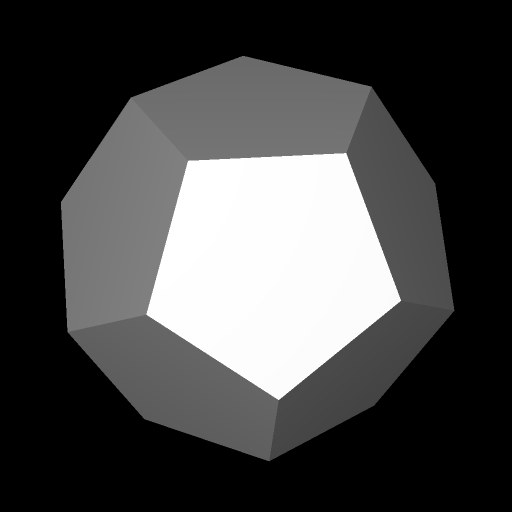
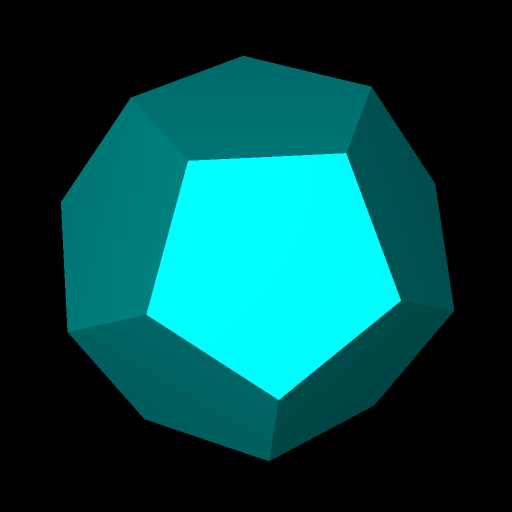
Improve README.md (#18)
* Use RedirectStandardError when rendering mp4 files

* Upgrade packages

* Paint scenes

* Improve README.md

---------

diff --git a/Imagine.Scenes/Scene.cs b/Imagine.Scenes/Scene.cs
@@ -20,8 +20,22 @@ public static class Scene
 	public static readonly double TetrahedronInradius = 1D / double.Sqrt(6D);
 	public static readonly double TetrahedronMidradius = 1D / double.Sqrt(2D);
 
+	private static readonly ColorHsv ConeColor = new(11D / 12D, 1D, 1D);
+	private static readonly ColorHsv CubeFaceDownColor = new(2D / 12D, 1D, 1D);
+	private static readonly ColorHsv CubeVertexDownColor = new(4D / 12D, 1D, 1D);
+	private static readonly ColorHsv CylinderColor = new(10D / 12D, 1D, 1D);
+	private static readonly ColorHsv DodecahedronFaceDownColor = new(6D / 12D, 1D, 1D);
+	private static readonly ColorHsv DodecahedronVertexDownColor = new(8D / 12D, 1D, 1D);
+	private static readonly ColorHsv IcosahedronFaceDownColor = new(9D / 12D, 1D, 1D);
+	private static readonly ColorHsv IcosahedronVertexDownColor = new(7D / 12D, 1D, 1D);
+	private static readonly ColorHsv OctahedronFaceDownColor = new(5D / 12D, 1D, 1D);
+	private static readonly ColorHsv OctahedronVertexDownColor = new(3D / 12D, 1D, 1D);
+	private static readonly ColorHsv TetrahedronFaceDownColor = new(0D / 12D, 1D, 1D);
+	private static readonly ColorHsv TetrahedronVertexDownColor = new(1D / 12D, 1D, 1D);
+
 	public static IScene Cone(Vector3 axis, double angle) =>
-		new Cone(axis, angle);
+		new Cone(axis, angle)
+			.Painted(ConeColor);
 
 	public static IScene CubeFaceDownWithCircumradius(double circumradius) =>
 		CubeFaceDownWithInradius(circumradius * CubeInradius / CubeCircumradius);
@@ -40,7 +54,8 @@ public static class Scene
 			new Vector3Spherical(inradius, 1D * deltaPhi, theta1),
 			new Vector3Spherical(inradius, 2D * deltaPhi, theta1),
 			new Vector3Spherical(inradius, 3D * deltaPhi, theta1),
-			new Vector3Spherical(inradius, 0D, theta2));
+			new Vector3Spherical(inradius, 0D, theta2))
+			.Painted(CubeFaceDownColor);
 	}
 
 	public static IScene CubeFaceDownWithMidradius(double midradius) =>
@@ -62,14 +77,16 @@ public static class Scene
 			new Vector3Spherical(inradius, 4D * deltaPhi, theta0),
 			new Vector3Spherical(inradius, 1D * deltaPhi, theta1),
 			new Vector3Spherical(inradius, 3D * deltaPhi, theta1),
-			new Vector3Spherical(inradius, 5D * deltaPhi, theta1));
+			new Vector3Spherical(inradius, 5D * deltaPhi, theta1))
+			.Painted(CubeVertexDownColor);
 	}
 
 	public static IScene CubeVertexDownWithMidradius(double midradius) =>
 		CubeVertexDownWithInradius(midradius * CubeInradius / CubeMidradius);
 
 	public static IScene Cylinder(Vector3 axis, double radius) =>
-		new Cylinder(axis, radius);
+		new Cylinder(axis, radius)
+			.Painted(CylinderColor);
 
 	public static IScene DodecahedronFaceDownWithCircumradius(double circumradius) =>
 		DodecahedronFaceDownWithInradius(circumradius * DodecahedronInradius / DodecahedronCircumradius);
@@ -95,7 +112,8 @@ public static class Scene
 			new Vector3Spherical(inradius, 4D * deltaPhi, theta2),
 			new Vector3Spherical(inradius, 6D * deltaPhi, theta2),
 			new Vector3Spherical(inradius, 8D * deltaPhi, theta2),
-			new Vector3Spherical(inradius, 0D, theta3));
+			new Vector3Spherical(inradius, 0D, theta3))
+			.Painted(DodecahedronFaceDownColor);
 	}
 
 	public static IScene DodecahedronFaceDownWithMidradius(double midradius) =>
@@ -125,7 +143,8 @@ public static class Scene
 			new Vector3Spherical(inradius, 4D * deltaPhi, theta2),
 			new Vector3Spherical(inradius, 1D * deltaPhi, theta3),
 			new Vector3Spherical(inradius, 3D * deltaPhi, theta3),
-			new Vector3Spherical(inradius, 5D * deltaPhi, theta3));
+			new Vector3Spherical(inradius, 5D * deltaPhi, theta3))
+			.Painted(DodecahedronVertexDownColor);
 	}
 
 	public static IScene DodecahedronVertexDownWithMidradius(double midradius) =>
@@ -172,7 +191,8 @@ public static class Scene
 			new Vector3Spherical(inradius, 0D * deltaPhi, theta4),
 			new Vector3Spherical(inradius, 2D * deltaPhi, theta4),
 			new Vector3Spherical(inradius, 4D * deltaPhi, theta4),
-			new Vector3Spherical(inradius, 0D, theta5));
+			new Vector3Spherical(inradius, 0D, theta5))
+			.Painted(IcosahedronFaceDownColor);
 	}
 
 	public static IScene IcosahedronFaceDownWithMidradius(double midradius) =>
@@ -210,7 +230,8 @@ public static class Scene
 			new Vector3Spherical(inradius, 3D * deltaPhi, theta3),
 			new Vector3Spherical(inradius, 5D * deltaPhi, theta3),
 			new Vector3Spherical(inradius, 7D * deltaPhi, theta3),
-			new Vector3Spherical(inradius, 9D * deltaPhi, theta3));
+			new Vector3Spherical(inradius, 9D * deltaPhi, theta3))
+			.Painted(IcosahedronVertexDownColor);
 	}
 
 	public static IScene IcosahedronVertexDownWithMidradius(double midradius) =>
@@ -239,7 +260,8 @@ public static class Scene
 			new Vector3Spherical(inradius, 0D * deltaPhi, theta2),
 			new Vector3Spherical(inradius, 2D * deltaPhi, theta2),
 			new Vector3Spherical(inradius, 4D * deltaPhi, theta2),
-			new Vector3Spherical(inradius, 0D, theta3));
+			new Vector3Spherical(inradius, 0D, theta3))
+			.Painted(OctahedronFaceDownColor);
 	}
 
 	public static IScene OctahedronFaceDownWithMidradius(double midradius) =>
@@ -263,7 +285,8 @@ public static class Scene
 			new Vector3Spherical(inradius, 1D * deltaPhi, theta1),
 			new Vector3Spherical(inradius, 3D * deltaPhi, theta1),
 			new Vector3Spherical(inradius, 5D * deltaPhi, theta1),
-			new Vector3Spherical(inradius, 7D * deltaPhi, theta1));
+			new Vector3Spherical(inradius, 7D * deltaPhi, theta1))
+			.Painted(OctahedronVertexDownColor);
 	}
 
 	public static IScene OctahedronVertexDownWithMidradius(double midradius) =>
@@ -298,7 +321,8 @@ public static class Scene
 			new Vector3Spherical(inradius, 0D * deltaPhi, theta0),
 			new Vector3Spherical(inradius, 2D * deltaPhi, theta0),
 			new Vector3Spherical(inradius, 4D * deltaPhi, theta0),
-			new Vector3Spherical(inradius, 0D, theta1));
+			new Vector3Spherical(inradius, 0D, theta1))
+			.Painted(TetrahedronFaceDownColor);
 	}
 
 	public static IScene TetrahedronFaceDownWithMidradius(double midradius) =>
@@ -318,7 +342,8 @@ public static class Scene
 			new Vector3Spherical(inradius, 0D, theta0),
 			new Vector3Spherical(inradius, 1D * deltaPhi, theta1),
 			new Vector3Spherical(inradius, 3D * deltaPhi, theta1),
-			new Vector3Spherical(inradius, 5D * deltaPhi, theta1));
+			new Vector3Spherical(inradius, 5D * deltaPhi, theta1))
+			.Painted(TetrahedronVertexDownColor);
 	}
 
 	public static IScene TetrahedronVertexDownWithMidradius(double midradius) =>

diff --git a/Imagine.Tests/ProjectorImageTests.cs b/Imagine.Tests/ProjectorImageTests.cs
@@ -14,7 +14,7 @@ public class ProjectorImageTests
 			Scene.DodecahedronMidradius / Scene.DodecahedronCircumradius,
 			Scene.IcosahedronMidradius / Scene.IcosahedronCircumradius);
 
-	private static readonly double SphereRadius =
+	private static readonly double SphereAlmostTouchingCubeEdgeRadius =
 		(Constants.Circumradius * Scene.CubeMidradius / Scene.CubeCircumradius) - Narrow;
 
 	private static readonly double TetrahedronMidradius =
@@ -33,7 +33,7 @@ public class ProjectorImageTests
 			subsamples: 2);
 
 	private static readonly IScene BoundingSphere = Scene.SphereWithRadius(Constants.Circumradius).Transparent();
-	private static readonly IScene Sphere = Scene.SphereWithRadius(SphereRadius);
+	private static readonly IScene SphereAlmostTouchingCubeEdge = Scene.SphereWithRadius(SphereAlmostTouchingCubeEdgeRadius);
 
 	private static readonly Dictionary<string, IScene> Scenes =
 		new()
@@ -53,9 +53,6 @@ public class ProjectorImageTests
 				Scene.Union(
 					Scene.CubeFaceDownWithMidradius(CubeOctahedronMidradius),
 					Scene.OctahedronVertexDownWithMidradius(CubeOctahedronMidradius)),
-			["cube-face-down-painted"] =
-				Scene.CubeFaceDownWithCircumradius(Constants.Circumradius)
-					.Painted(Color.Red),
 			["cube-face-down-rotated"] =
 				Scene.CubeFaceDownWithCircumradius(Constants.Circumradius)
 					.Rotated(double.Pi / 4D),
@@ -66,15 +63,15 @@ public class ProjectorImageTests
 				Scene.Intersection(
 					Scene.CubeFaceDownWithCircumradius(Constants.Circumradius),
 					Scene.SphereWithRadius(1D).
-						Scaled(SphereRadius)),
+						Scaled(SphereAlmostTouchingCubeEdgeRadius)),
 			["cube-face-down-sphere-inverted-union"] =
 				Scene.Intersection(
 					Scene.CubeFaceDownWithCircumradius(Constants.Circumradius),
-					Sphere.Inverted()),
+					SphereAlmostTouchingCubeEdge.Inverted()),
 			["cube-face-down-sphere-union"] =
 				Scene.Union(
 					Scene.CubeFaceDownWithCircumradius(Constants.Circumradius),
-					Sphere),
+					SphereAlmostTouchingCubeEdge),
 			["cube-face-down-translated"] =
 				Scene.CubeFaceDownWithCircumradius(Constants.Circumradius)
 					.Translated(new(0D, Constants.Circumradius / 4D, 0D)),
@@ -123,14 +120,14 @@ public class ProjectorImageTests
 					Scene.PlaneThroughOrigin(Vector3.UnitZ),
 					BoundingSphere),
 			["sphere"] =
-				Sphere,
+				Scene.SphereWithRadius(Constants.Circumradius),
 			["sphere-cone-inverted-intersection"] =
 				Scene.Intersection(
-					Sphere,
+					SphereAlmostTouchingCubeEdge,
 					Scene.Cone(Vector3.UnitZ, double.Pi / 2D).Inverted()),
 			["sphere-cube-face-down-inverted-intersection"] =
 				Scene.Intersection(
-					Sphere,
+					SphereAlmostTouchingCubeEdge,
 					Scene.CubeFaceDownWithCircumradius(Constants.Circumradius)),
 			["sphere-painted-hsv"] =
 				Scene.SphereWithRadius(1D)

diff --git a/Imagine.Tools/Saver.cs b/Imagine.Tools/Saver.cs
@@ -52,6 +52,7 @@ public static class Saver
 				FileName = "ffmpeg",
 				Arguments = $"-y -framerate 30 -i {FramesDirectory}/{name}-%04d.png -c:v libx264 -pix_fmt yuv420p {file}",
 				RedirectStandardOutput = true,
+				RedirectStandardError = true,
 				UseShellExecute = false,
 				CreateNoWindow = true,
 			},

diff --git a/README.md b/README.md
@@ -1,4 +1,91 @@
 # Imagine
-- Images
-- Movies
-- Ray tracing
+
+Renders images and movies
+
+## Examples
+
+### Images
+
+<a href="Imagine.Tests/input/cone-bounded.png"><img src="Imagine.Tests/input/cone-bounded.png" width="128" height="128" alt="cone-bounded"><br>cone-bounded</a>
+
+<a href="Imagine.Tests/input/cone-union.png"><img src="Imagine.Tests/input/cone-union.png" width="128" height="128" alt="cone-union"><br>cone-union</a>
+
+<a href="Imagine.Tests/input/cube-face-down.png"><img src="Imagine.Tests/input/cube-face-down.png" width="128" height="128" alt="cube-face-down"><br>cube-face-down</a>
+
+<a href="Imagine.Tests/input/cube-face-down-octahedron-vertex-down-union.png"><img src="Imagine.Tests/input/cube-face-down-octahedron-vertex-down-union.png" width="128" height="128" alt="cube-face-down-octahedron-vertex-down-union"><br>cube-face-down-octahedron-vertex-down-union</a>
+
+<a href="Imagine.Tests/input/cube-face-down-rotated.png"><img src="Imagine.Tests/input/cube-face-down-rotated.png" width="128" height="128" alt="cube-face-down-rotated"><br>cube-face-down-rotated</a>
+
+<a href="Imagine.Tests/input/cube-face-down-scaled.png"><img src="Imagine.Tests/input/cube-face-down-scaled.png" width="128" height="128" alt="cube-face-down-scaled"><br>cube-face-down-scaled</a>
+
+<a href="Imagine.Tests/input/cube-face-down-sphere-intersection.png"><img src="Imagine.Tests/input/cube-face-down-sphere-intersection.png" width="128" height="128" alt="cube-face-down-sphere-intersection"><br>cube-face-down-sphere-intersection</a>
+
+<a href="Imagine.Tests/input/cube-face-down-sphere-inverted-union.png"><img src="Imagine.Tests/input/cube-face-down-sphere-inverted-union.png" width="128" height="128" alt="cube-face-down-sphere-inverted-union"><br>cube-face-down-sphere-inverted-union</a>
+
+<a href="Imagine.Tests/input/cube-face-down-sphere-union.png"><img src="Imagine.Tests/input/cube-face-down-sphere-union.png" width="128" height="128" alt="cube-face-down-sphere-union"><br>cube-face-down-sphere-union</a>
+
+<a href="Imagine.Tests/input/cube-face-down-translated.png"><img src="Imagine.Tests/input/cube-face-down-translated.png" width="128" height="128" alt="cube-face-down-translated"><br>cube-face-down-translated</a>
+
+<a href="Imagine.Tests/input/cube-vertex-down.png"><img src="Imagine.Tests/input/cube-vertex-down.png" width="128" height="128" alt="cube-vertex-down"><br>cube-vertex-down</a>
+
+<a href="Imagine.Tests/input/cylinder-bounded.png"><img src="Imagine.Tests/input/cylinder-bounded.png" width="128" height="128" alt="cylinder-bounded"><br>cylinder-bounded</a>
+
+<a href="Imagine.Tests/input/cylinder-intersection.png"><img src="Imagine.Tests/input/cylinder-intersection.png" width="128" height="128" alt="cylinder-intersection"><br>cylinder-intersection</a>
+
+<a href="Imagine.Tests/input/cylinder-union.png"><img src="Imagine.Tests/input/cylinder-union.png" width="128" height="128" alt="cylinder-union"><br>cylinder-union</a>
+
+<a href="Imagine.Tests/input/dodecahedron-face-down.png"><img src="Imagine.Tests/input/dodecahedron-face-down.png" width="128" height="128" alt="dodecahedron-face-down"><br>dodecahedron-face-down</a>
+
+<a href="Imagine.Tests/input/dodecahedron-face-down-icosahedron-vertex-down-union.png"><img src="Imagine.Tests/input/dodecahedron-face-down-icosahedron-vertex-down-union.png" width="128" height="128" alt="dodecahedron-face-down-icosahedron-vertex-down-union"><br>dodecahedron-face-down-icosahedron-vertex-down-union</a>
+
+<a href="Imagine.Tests/input/dodecahedron-vertex-down.png"><img src="Imagine.Tests/input/dodecahedron-vertex-down.png" width="128" height="128" alt="dodecahedron-vertex-down"><br>dodecahedron-vertex-down</a>
+
+<a href="Imagine.Tests/input/hsv.png"><img src="Imagine.Tests/input/hsv.png" width="128" height="128" alt="hsv"><br>hsv</a>
+
+<a href="Imagine.Tests/input/icosahedron-face-down.png"><img src="Imagine.Tests/input/icosahedron-face-down.png" width="128" height="128" alt="icosahedron-face-down"><br>icosahedron-face-down</a>
+
+<a href="Imagine.Tests/input/icosahedron-face-down-dodecahedron-vertex-down-union.png"><img src="Imagine.Tests/input/icosahedron-face-down-dodecahedron-vertex-down-union.png" width="128" height="128" alt="icosahedron-face-down-dodecahedron-vertex-down-union"><br>icosahedron-face-down-dodecahedron-vertex-down-union</a>
+
+<a href="Imagine.Tests/input/icosahedron-vertex-down.png"><img src="Imagine.Tests/input/icosahedron-vertex-down.png" width="128" height="128" alt="icosahedron-vertex-down"><br>icosahedron-vertex-down</a>
+
+<a href="Imagine.Tests/input/octahedron-face-down.png"><img src="Imagine.Tests/input/octahedron-face-down.png" width="128" height="128" alt="octahedron-face-down"><br>octahedron-face-down</a>
+
+<a href="Imagine.Tests/input/octahedron-face-down-cube-vertex-down-union.png"><img src="Imagine.Tests/input/octahedron-face-down-cube-vertex-down-union.png" width="128" height="128" alt="octahedron-face-down-cube-vertex-down-union"><br>octahedron-face-down-cube-vertex-down-union</a>
+
+<a href="Imagine.Tests/input/octahedron-vertex-down.png"><img src="Imagine.Tests/input/octahedron-vertex-down.png" width="128" height="128" alt="octahedron-vertex-down"><br>octahedron-vertex-down</a>
+
+<a href="Imagine.Tests/input/plane-horizontal-bounded.png"><img src="Imagine.Tests/input/plane-horizontal-bounded.png" width="128" height="128" alt="plane-horizontal-bounded"><br>plane-horizontal-bounded</a>
+
+<a href="Imagine.Tests/input/rgb.png"><img src="Imagine.Tests/input/rgb.png" width="128" height="128" alt="rgb"><br>rgb</a>
+
+<a href="Imagine.Tests/input/sphere.png"><img src="Imagine.Tests/input/sphere.png" width="128" height="128" alt="sphere"><br>sphere</a>
+
+<a href="Imagine.Tests/input/sphere-cone-inverted-intersection.png"><img src="Imagine.Tests/input/sphere-cone-inverted-intersection.png" width="128" height="128" alt="sphere-cone-inverted-intersection"><br>sphere-cone-inverted-intersection</a>
+
+<a href="Imagine.Tests/input/sphere-cube-face-down-inverted-intersection.png"><img src="Imagine.Tests/input/sphere-cube-face-down-inverted-intersection.png" width="128" height="128" alt="sphere-cube-face-down-inverted-intersection"><br>sphere-cube-face-down-inverted-intersection</a>
+
+<a href="Imagine.Tests/input/sphere-painted-hsv.png"><img src="Imagine.Tests/input/sphere-painted-hsv.png" width="128" height="128" alt="sphere-painted-hsv"><br>sphere-painted-hsv</a>
+
+<a href="Imagine.Tests/input/sphere-painted-hsv-cartesian.png"><img src="Imagine.Tests/input/sphere-painted-hsv-cartesian.png" width="128" height="128" alt="sphere-painted-hsv-cartesian"><br>sphere-painted-hsv-cartesian</a>
+
+<a href="Imagine.Tests/input/sphere-painted-hsv-spherical.png"><img src="Imagine.Tests/input/sphere-painted-hsv-spherical.png" width="128" height="128" alt="sphere-painted-hsv-spherical"><br>sphere-painted-hsv-spherical</a>
+
+<a href="Imagine.Tests/input/sphere-painted-rgb.png"><img src="Imagine.Tests/input/sphere-painted-rgb.png" width="128" height="128" alt="sphere-painted-rgb"><br>sphere-painted-rgb</a>
+
+<a href="Imagine.Tests/input/sphere-painted-rgb-cartesian.png"><img src="Imagine.Tests/input/sphere-painted-rgb-cartesian.png" width="128" height="128" alt="sphere-painted-rgb-cartesian"><br>sphere-painted-rgb-cartesian</a>
+
+<a href="Imagine.Tests/input/sphere-painted-rgb-spherical.png"><img src="Imagine.Tests/input/sphere-painted-rgb-spherical.png" width="128" height="128" alt="sphere-painted-rgb-spherical"><br>sphere-painted-rgb-spherical</a>
+
+<a href="Imagine.Tests/input/tetrahedron-face-down.png"><img src="Imagine.Tests/input/tetrahedron-face-down.png" width="128" height="128" alt="tetrahedron-face-down"><br>tetrahedron-face-down</a>
+
+<a href="Imagine.Tests/input/tetrahedron-union.png"><img src="Imagine.Tests/input/tetrahedron-union.png" width="128" height="128" alt="tetrahedron-union"><br>tetrahedron-union</a>
+
+<a href="Imagine.Tests/input/tetrahedron-vertex-down.png"><img src="Imagine.Tests/input/tetrahedron-vertex-down.png" width="128" height="128" alt="tetrahedron-vertex-down"><br>tetrahedron-vertex-down</a>
+
+### Movies
+
+<a href="Imagine.Tests/input/cube-rotating.mp4"><img src="Imagine.Tests/input/cube-face-down.png" width="128" height="128" alt="cube-rotating"></a><br>cube-rotating
+
+<a href="Imagine.Tests/input/hsv.mp4"><img src="Imagine.Tests/input/hsv.png" width="128" height="128" alt="hsv"></a><br>hsv
+
+<a href="Imagine.Tests/input/rgb.mp4"><img src="Imagine.Tests/input/rgb.png" width="128" height="128" alt="rgb"></a><br>rgb
